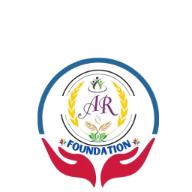
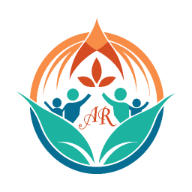
added

diff --git a/src/app/contact/page.js b/src/app/contact/page.js
@@ -64,21 +64,21 @@ export default function Contact() {
     {
       icon: FaEnvelope,
       label: "Email",
-      value: "info@arfoundation.org",
-      link: "mailto:info@arfoundation.org",
+      value: "arfoundation1978@gmail.com",
+      link: "mailto:arfoundation1978@gmail.com",
       color: "from-blue-500 to-cyan-500",
     },
     {
       icon: FaPhone,
       label: "Phone",
-      value: "+91 XXX XXX XXXX",
-      link: "tel:+91XXXXXXXXXX",
+      value: "+91 9000483399",
+      link: "tel:+919000483399",
       color: "from-green-500 to-emerald-500",
     },
     {
       icon: FaMapMarkerAlt,
       label: "Address",
-      value: "123 Foundation Street, City, State 000000",
+      value: "82-5-430,Sampath nagar 5th line,Guntur,522004",
       link: "#",
       color: "from-orange-500 to-red-500",
     },

diff --git a/src/app/layout.js b/src/app/layout.js
@@ -16,7 +16,7 @@ export default function RootLayout({ children }) {
 
     const timeout = setTimeout(() => {
       setLoading(false);
-    }, 700); // duration of loader
+    }, 2000); // duration of loader
 
     return () => clearTimeout(timeout);
   }, [pathname]);
@@ -57,7 +57,7 @@ export default function RootLayout({ children }) {
           <div className="loader-premium horizontal">
           {/* LOGO */}
           <img
-            src="/turst-logo (2).webp"   // ← replace with your logo path
+            src="/turst-logo.png"   // ← replace with your logo path
             alt="AR Foundation Logo"
             className="loader-logo w-60"
           />

diff --git a/src/components/Footer.js b/src/components/Footer.js
@@ -144,7 +144,11 @@ export default function Footer() {
           <p className="text-xs text-[#d5c08a]">
             © {year} AR Foundation. All rights reserved.
           </p>
+           <a className="text-xs text-[#d5c08a]" href="https://www.ramakalpasolutions.in/">
+            Designed by Ramakalpa Solutions
+          </a>
         </div>
+        
       </div>
 
       {/* MOBILE: a compact alternate layout (keeps markup small and readable)

diff --git a/src/app/donate/page.js b/src/app/donate/page.js
@@ -30,11 +30,11 @@ function DonateContent() {
   // bank details
   const BANK = {
     accountName: "AR Foundation",
-    accountNumber: "1234567890",
-    ifsc: "SBIN0000123",
-    bankName: "State Bank of India",
+    accountNumber: "50200073935044",
+    ifsc: "HDFC0004799",
+    bankName: "HDFC BANK",
     branch: "Guntur",
-    upiId: "arfoundation@sbi",
+    // upiId: "arfoundation@sbi",
   };
 
   // Prefill from query params

diff --git a/src/components/Header.js b/src/components/Header.js
@@ -24,9 +24,9 @@ export default function Header() {
         
         <div className="flex items-center gap-1">
           <img
-            src="/turst-logo (2).webp"
+            src="/turst-logo (2).png"
             alt="Logo"
-            className="w-20 h-20 ml-9  rounded-md object-cover"
+            className="w-25 h-25 ml-9  rounded-md object-cover"
           />
 
         <motion.div
